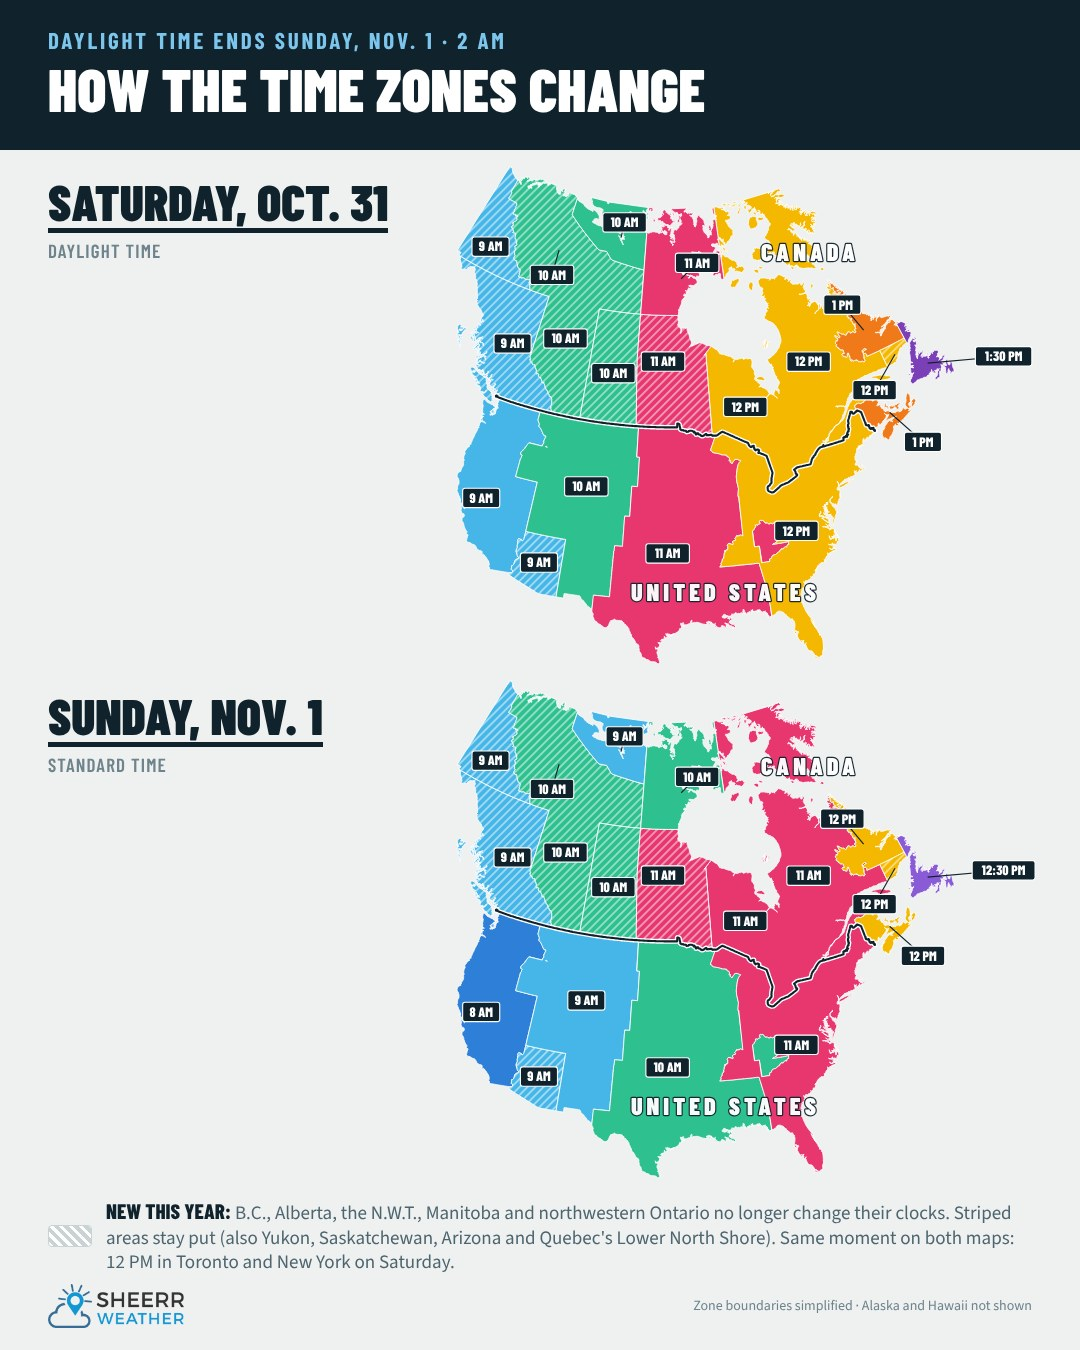
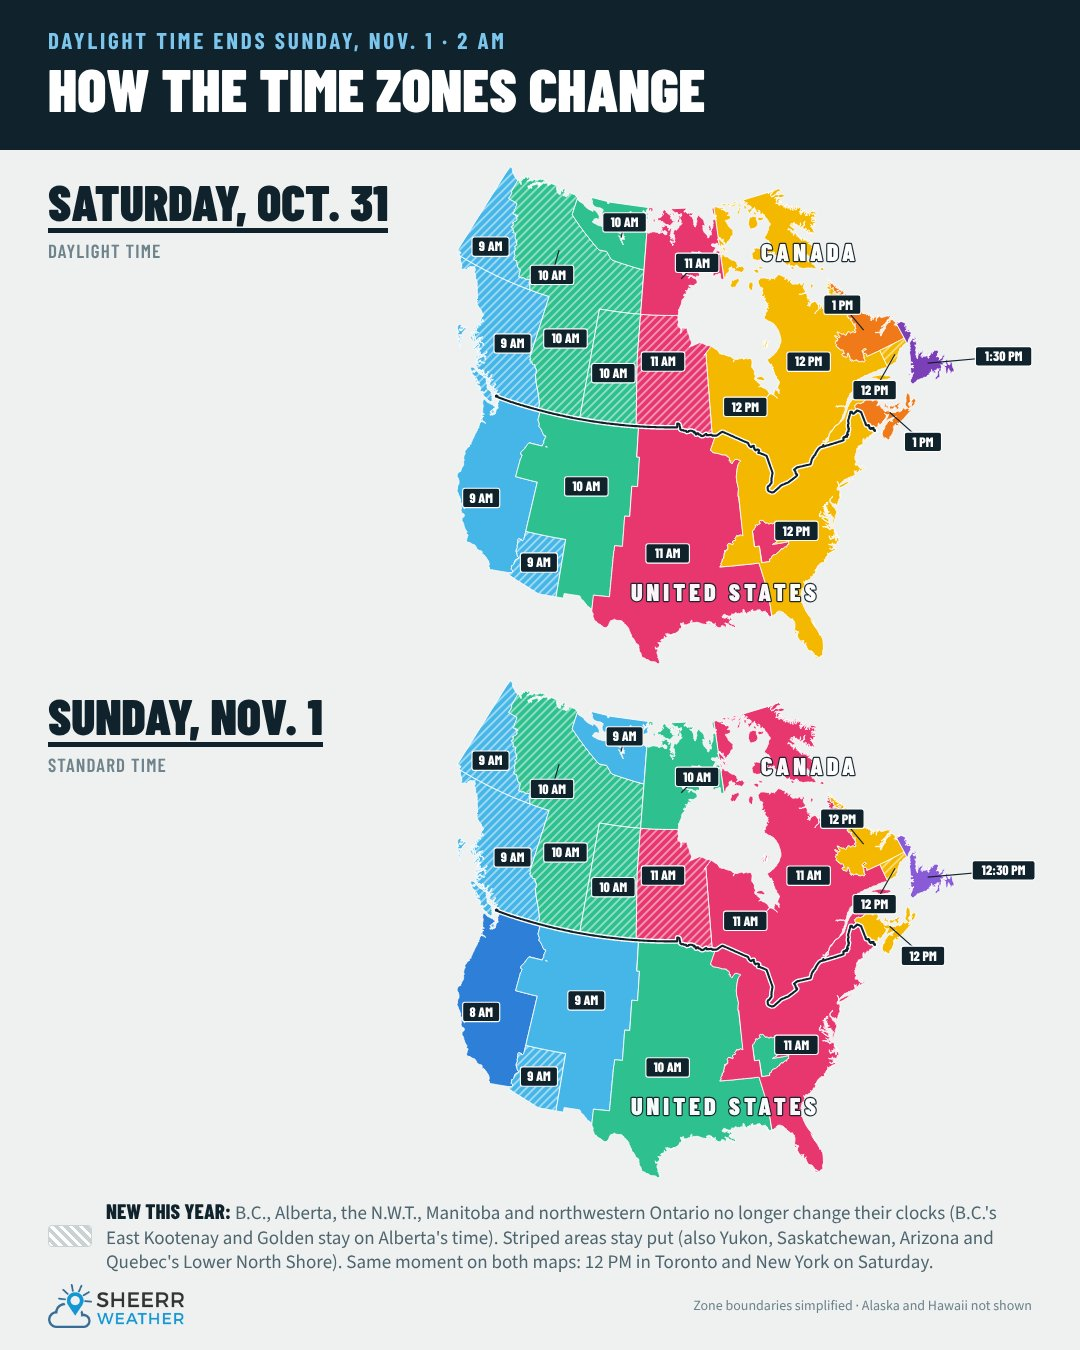
Time zone map: East Kootenay and Golden B.C. stay on Alberta time (UTC-6)
Checked 53 communities against official 2026 sources; all now match.

Claude-Session: https://claude.ai/code/session_019e8gtP4Ersj9Kv51CkWHmD

Changed region(s): [[0.0917, 0.8711, 0.9472, 0.9644], [0.4889, 0.6533, 0.5194, 0.6844], [0.4889, 0.28, 0.5194, 0.3111]]

diff --git a/maps/timezones-fallback/social-map.html b/maps/timezones-fallback/social-map.html
@@ -47,7 +47,7 @@ h1{font-family:"Barlow Condensed",sans-serif;font-weight:900;text-transform:uppe
   <div class="top"><div class="eyebrow">Daylight time ends Sunday, Nov. 1 · 2 AM</div><h1>How the time zones change</h1></div>
   <div class="blk" style="top:166px"><svg id="m0"></svg><div class="dt"><b>Saturday, Oct. 31</b><span>Daylight time</span></div></div>
   <div class="blk b" style="top:680px"><svg id="m1"></svg><div class="dt"><b>Sunday, Nov. 1</b><span>Standard time</span></div></div>
-  <div class="note"><i></i><div><b>New this year:</b> B.C., Alberta, the N.W.T., Manitoba and northwestern Ontario no longer change their clocks. Striped areas stay put (also Yukon, Saskatchewan, Arizona and Quebec's Lower North Shore). Same moment on both maps: 12 PM in Toronto and New York on Saturday.</div></div>
+  <div class="note"><i></i><div><b>New this year:</b> B.C., Alberta, the N.W.T., Manitoba and northwestern Ontario no longer change their clocks (B.C.'s East Kootenay and Golden stay on Alberta's time). Striped areas stay put (also Yukon, Saskatchewan, Arizona and Quebec's Lower North Shore). Same moment on both maps: 12 PM in Toronto and New York on Saturday.</div></div>
   <div class="foot"><img src="logo.png" alt="Sheerr Weather"><span>Zone boundaries simplified · Alaska and Hawaii not shown</span></div>
 </div></div></div>
 <script src="map-data.js"></script>

diff --git a/maps/timezones-fallback/build_map.py b/maps/timezones-fallback/build_map.py
@@ -4,7 +4,7 @@ Writes map-data.js (window.TM).   python3 build_map.py data/ne/adm1.geojson"""
 import json, os, sys
 from pyproj import Transformer
 from shapely import make_valid
-from shapely.geometry import box, shape
+from shapely.geometry import Polygon, box, shape
 from shapely.ops import transform, unary_union
 import build as cz
 
@@ -31,14 +31,17 @@ OFF = {"today": {"PT": -7, "AZ": -7, "MT": -6, "CT": -5, "ET": -4, "BC": -7, "YT
 
 
 def canada_2026(ne):
-    """Canadian zones as of Nov 1, 2026: B.C. (permanent UTC-7 since Mar 8), Alberta + N.W.T. (permanent UTC-6),
+    """Canadian zones as of Nov 1, 2026: B.C. (permanent UTC-7 since Mar 8), Alberta + N.W.T. + East Kootenay/Golden B.C. (permanent UTC-6),
     Manitoba + northwestern Ontario west of 90W (permanent UTC-5), Nunavut split by its Mountain/Central/Eastern parts."""
     f = {x["properties"]["name"]: make_valid(shape(x["geometry"])) for x in json.load(open(ne))["features"] if x["properties"].get("admin") == "Canada"}
     q, lab = f["Québec"], f["Newfoundland and Labrador"]
     isl = lab.intersection(box(-60, 46, -52, 51.7)); labr = lab.difference(isl); se = labr.intersection(box(-57.1, 51.3, -55, 53.6))
     nu, on = f["Nunavut"], f["Ontario"]
+    # East Kootenay (RDEK, incl. Cranbrook, Fernie, Invermere) + Golden / CSRD Area A: year-round UTC-6 with Alberta (Creston stays UTC-7)
+    ek = f["British Columbia"].intersection(Polygon([(-116.35, 48.9), (-116.45, 49.6), (-116.8, 50.2), (-117.3, 50.9), (-117.8, 51.5),
+                                                     (-118.3, 52.3), (-117.5, 53.0), (-113.5, 53.0), (-113.5, 48.9)]))
     return {
-        "BC": f["British Columbia"], "YT": f["Yukon"], "AB": unary_union([f["Alberta"], f["Northwest Territories"]]), "SK": f["Saskatchewan"],
+        "BC": f["British Columbia"].difference(ek), "YT": f["Yukon"], "AB": unary_union([f["Alberta"], f["Northwest Territories"], ek]), "SK": f["Saskatchewan"],
         "MB": unary_union([f["Manitoba"], on.intersection(box(-100, 40, -90, 60))]),
         "NUW": nu.intersection(box(-125, 50, -102, 90)), "NUC": nu.intersection(box(-102, 50, -85, 90)),
         "ETC": unary_union([on.difference(box(-100, 40, -90, 60)), q.difference(box(-61.5, 49.8, 0, 90)).difference(box(-62.5, 46, 0, 48)),
